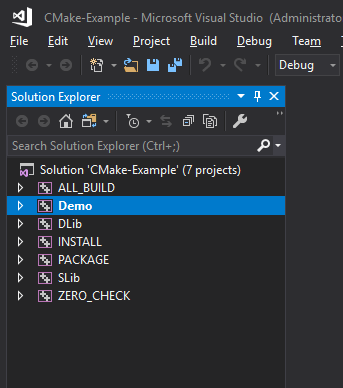
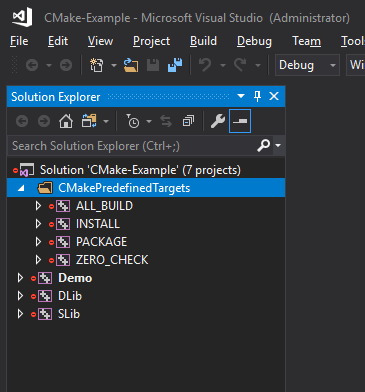
Put cmake auto-generated projects to CMakePredefinedTargets folder

diff --git a/README.md b/README.md
@@ -16,7 +16,7 @@ It doesn't contain any wise C++ code, it shows how to use CMake, in particular:
 
 # To run this example:
 - download repository on your hard-disk
-- in the downloaded folder in command line run `cmake" -H. -Bbuild`. This will create `build` directory and e.g. generate solution to Visual Studio
+- in the downloaded folder in command line run `cmake -H. -Bbuild`. This will create `build` directory and e.g. generate solution to Visual Studio
 - After opening .sln in Visual Studio you should see something like that
 
 ![VS view](doc/vs-view.png)
